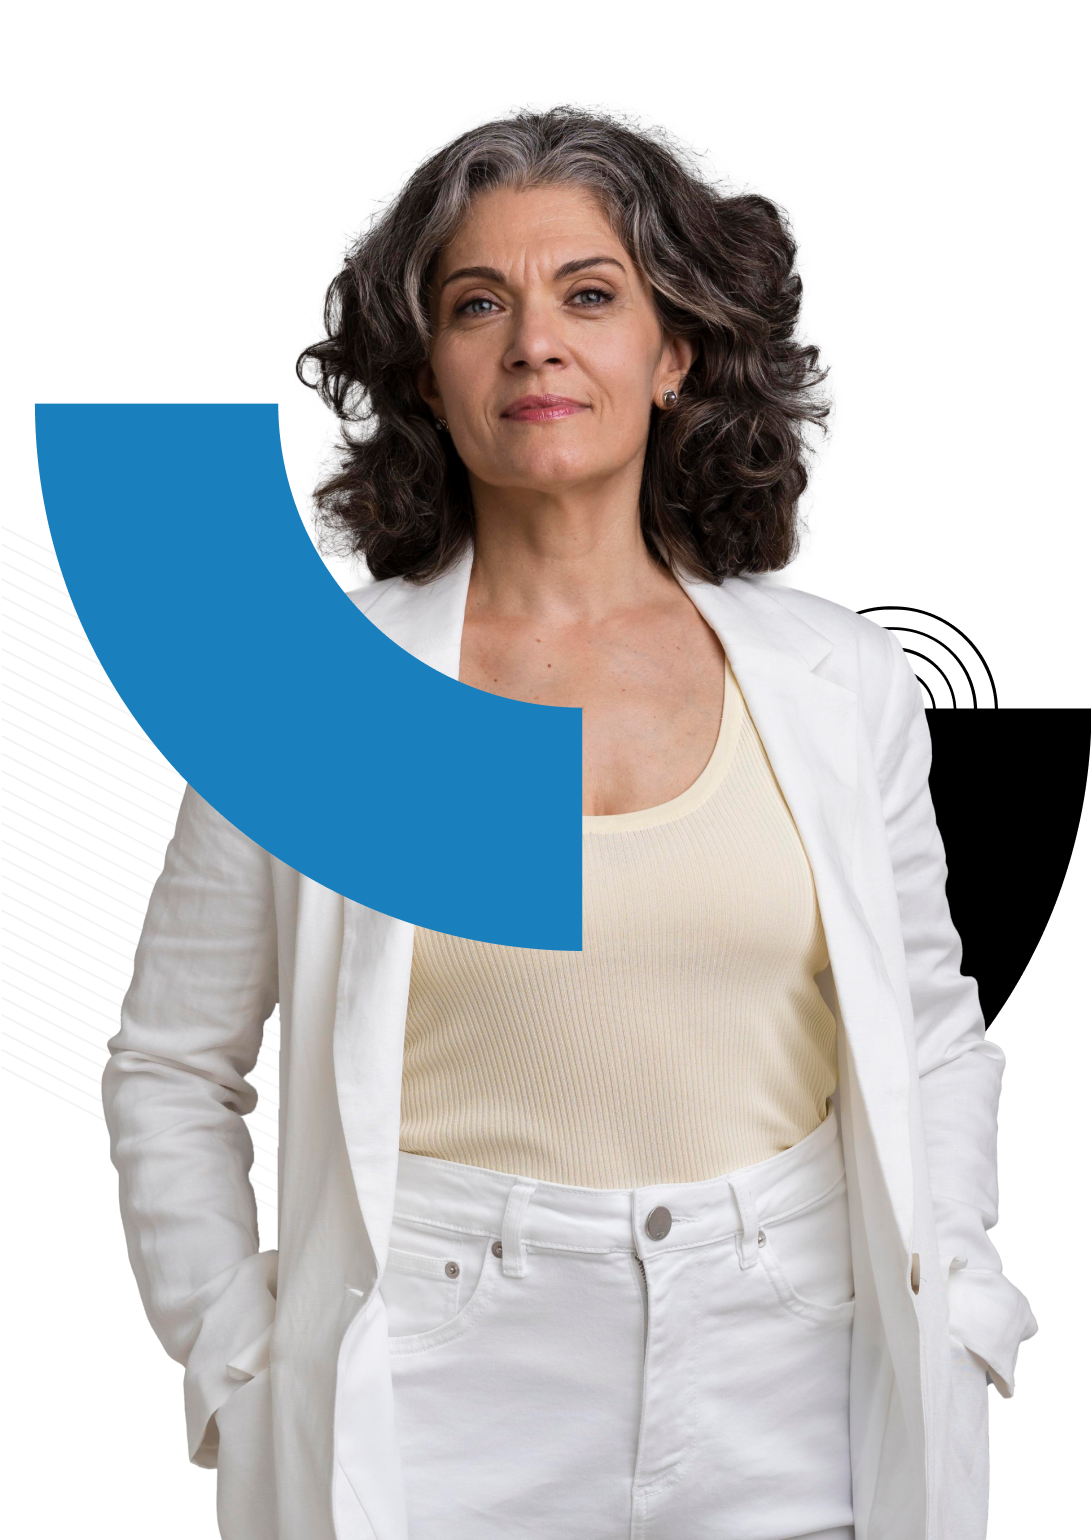
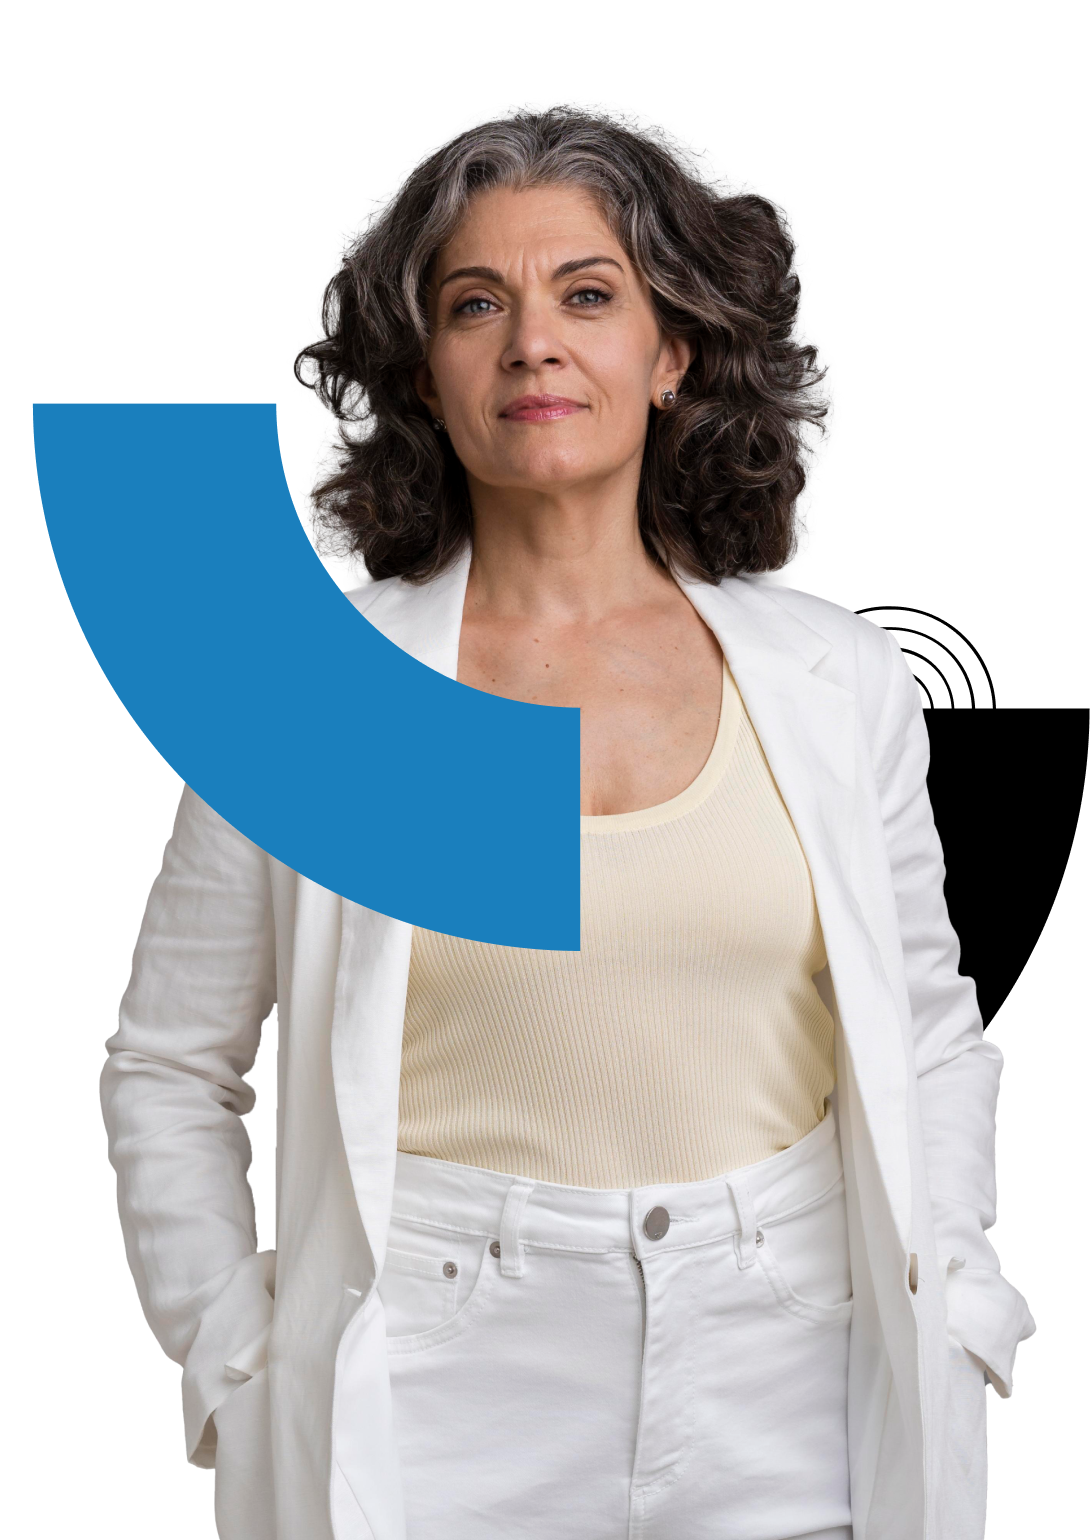
.

diff --git a/style.css b/style.css
@@ -444,15 +444,16 @@ p#paragrafo-obrigatorio {
 }
 
 .img-container {
-    width: 100%;
-    left: 100%;
+    width: 30%;
+    position: relative; 
+    left: 18%;
    }
 
 .texto-problema-principal {
     width: 20%;
     position: relative;
     bottom: 650px;
-    left: 50%;
+    left: 57%;
 }
 
 .titulo-problema {
@@ -492,7 +493,7 @@ p#paragrafo-obrigatorio {
     justify-content: center auto;
     position: relative;
     bottom: 575px;
-    left: 10%;
+    left: 13%;
     
 }
 
